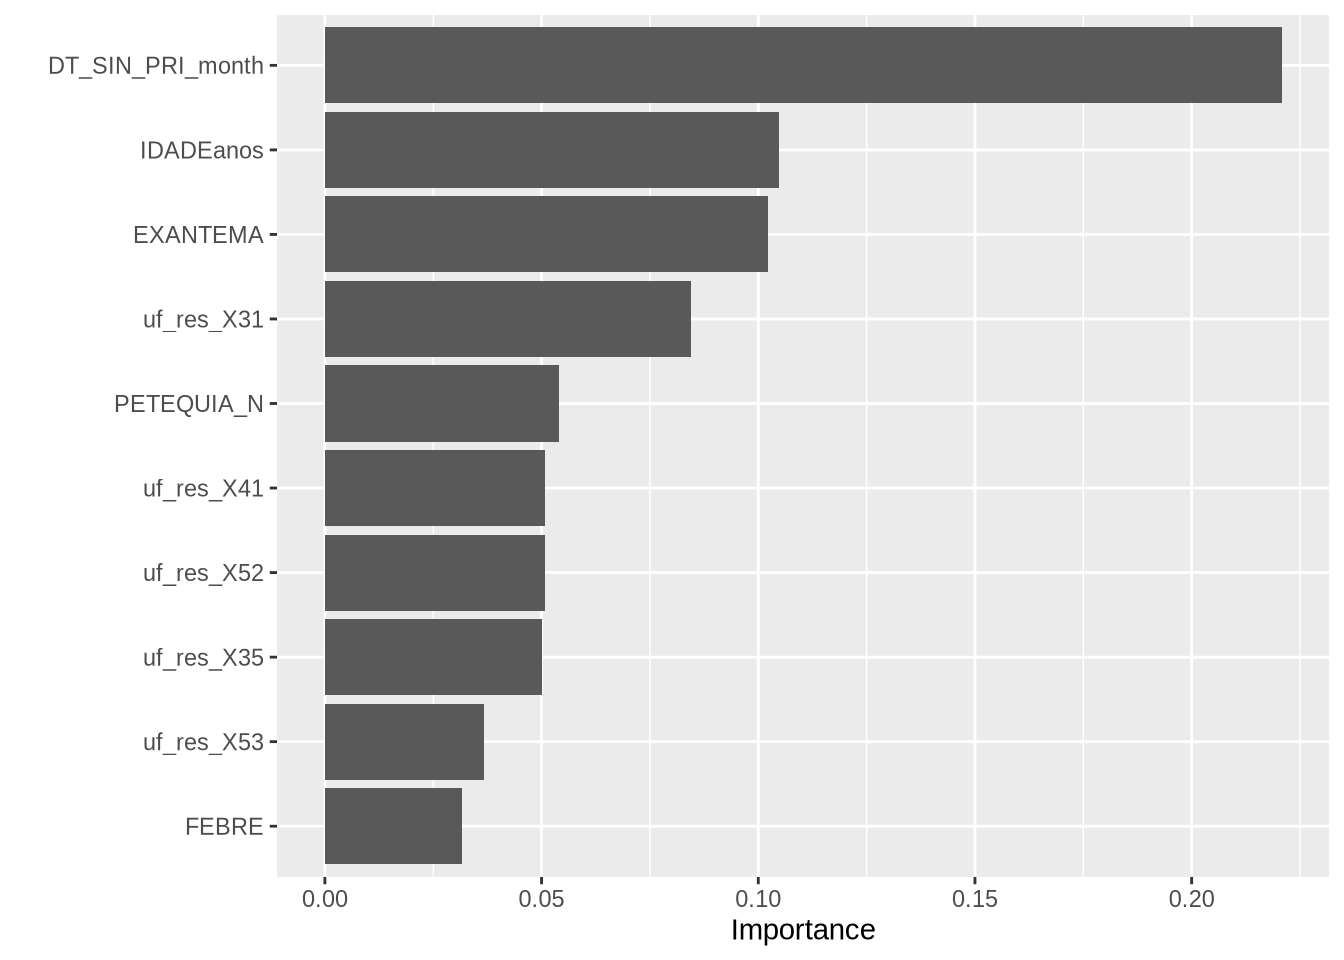
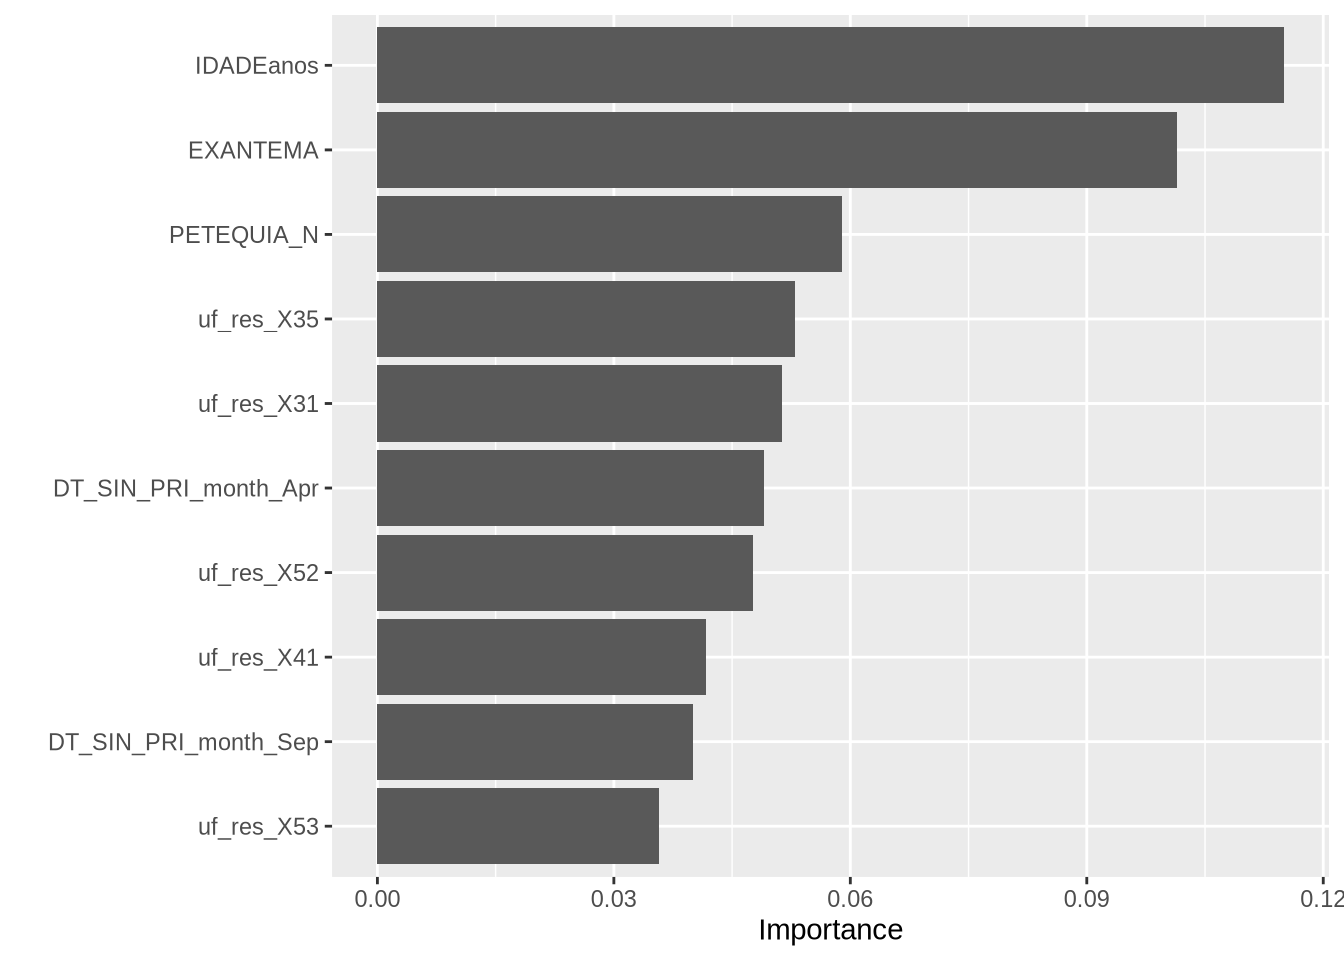
model run

diff --git a/docs/dengue-model/classification/03_model_ref_simp.html b/docs/dengue-model/classification/03_model_ref_simp.html
@@ -629,7 +629,7 @@ gtag('config', 'G-ZMP18L536K', { 'anonymize_ip': true});
     <div>
     <div class="quarto-title-meta-heading">Last modification</div>
     <div class="quarto-title-meta-contents">
-      <p class="date">February 13, 2024 | 12:25:37 -03:00</p>
+      <p class="date">February 13, 2024 | 12:43:36 -03:00</p>
     </div>
   </div>
   
@@ -723,12 +723,13 @@ gtag('config', 'G-ZMP18L536K', { 'anonymize_ip': true});
 <div class="cell">
 <div class="sourceCode cell-code" id="cb7"><pre class="sourceCode r code-with-copy"><code class="sourceCode r"><span id="cb7-1"><a href="#cb7-1" aria-hidden="true" tabindex="-1"></a>rec_ref_simp_2 <span class="ot">&lt;-</span> <span class="fu">recipe</span>(CLASSI_FIN <span class="sc">~</span> ., <span class="at">data =</span> dc_ref_simp_training) <span class="sc">|&gt;</span></span>
 <span id="cb7-2"><a href="#cb7-2" aria-hidden="true" tabindex="-1"></a>  <span class="fu">step_rm</span>(CRITERIO, case_source, ID_MN_RESI) <span class="sc">|&gt;</span></span>
-<span id="cb7-3"><a href="#cb7-3" aria-hidden="true" tabindex="-1"></a>  <span class="fu">step_date</span>(DT_SIN_PRI, <span class="at">features =</span> <span class="fu">c</span>(<span class="st">"month"</span>), <span class="at">label =</span> <span class="cn">FALSE</span>, <span class="at">keep_original_cols =</span> <span class="cn">FALSE</span>) <span class="sc">|&gt;</span></span>
-<span id="cb7-4"><a href="#cb7-4" aria-hidden="true" tabindex="-1"></a>  <span class="fu">step_dummy</span>(uf_res, <span class="at">one_hot =</span> <span class="cn">TRUE</span>) <span class="sc">|&gt;</span></span>
-<span id="cb7-5"><a href="#cb7-5" aria-hidden="true" tabindex="-1"></a>  <span class="fu">step_integer</span>(<span class="fu">all_logical_predictors</span>()) <span class="sc">|&gt;</span></span>
-<span id="cb7-6"><a href="#cb7-6" aria-hidden="true" tabindex="-1"></a>  <span class="fu">step_mutate_at</span>(<span class="fu">all_of</span>(symp_cond_vars), <span class="at">fn =</span> <span class="sc">~</span><span class="fu">replace_na</span>(., <span class="dv">0</span>)) <span class="sc">|&gt;</span></span>
-<span id="cb7-7"><a href="#cb7-7" aria-hidden="true" tabindex="-1"></a>  <span class="fu">step_other</span>(CS_GESTANT) <span class="sc">|&gt;</span></span>
-<span id="cb7-8"><a href="#cb7-8" aria-hidden="true" tabindex="-1"></a>  <span class="fu">step_dummy</span>(CS_SEXO, CS_GESTANT, <span class="at">one_hot =</span> <span class="cn">TRUE</span>)</span></code><button title="Copy to Clipboard" class="code-copy-button"><i class="bi"></i></button></pre></div>
+<span id="cb7-3"><a href="#cb7-3" aria-hidden="true" tabindex="-1"></a>  <span class="fu">step_date</span>(DT_SIN_PRI, <span class="at">features =</span> <span class="fu">c</span>(<span class="st">"month"</span>), <span class="at">keep_original_cols =</span> <span class="cn">FALSE</span>) <span class="sc">|&gt;</span></span>
+<span id="cb7-4"><a href="#cb7-4" aria-hidden="true" tabindex="-1"></a>  <span class="fu">step_dummy</span>(DT_SIN_PRI_month, <span class="at">one_hot =</span> <span class="cn">TRUE</span>) <span class="sc">|&gt;</span></span>
+<span id="cb7-5"><a href="#cb7-5" aria-hidden="true" tabindex="-1"></a>  <span class="fu">step_dummy</span>(uf_res, <span class="at">one_hot =</span> <span class="cn">TRUE</span>) <span class="sc">|&gt;</span></span>
+<span id="cb7-6"><a href="#cb7-6" aria-hidden="true" tabindex="-1"></a>  <span class="fu">step_integer</span>(<span class="fu">all_logical_predictors</span>()) <span class="sc">|&gt;</span></span>
+<span id="cb7-7"><a href="#cb7-7" aria-hidden="true" tabindex="-1"></a>  <span class="fu">step_mutate_at</span>(<span class="fu">all_of</span>(symp_cond_vars), <span class="at">fn =</span> <span class="sc">~</span><span class="fu">replace_na</span>(., <span class="dv">0</span>)) <span class="sc">|&gt;</span></span>
+<span id="cb7-8"><a href="#cb7-8" aria-hidden="true" tabindex="-1"></a>  <span class="fu">step_other</span>(CS_GESTANT) <span class="sc">|&gt;</span></span>
+<span id="cb7-9"><a href="#cb7-9" aria-hidden="true" tabindex="-1"></a>  <span class="fu">step_dummy</span>(CS_SEXO, CS_GESTANT, <span class="at">one_hot =</span> <span class="cn">TRUE</span>)</span></code><button title="Copy to Clipboard" class="code-copy-button"><i class="bi"></i></button></pre></div>
 </div>
 </section>
 </section>
@@ -786,13 +787,13 @@ gtag('config', 'G-ZMP18L536K', { 'anonymize_ip': true});
 <pre><code>i 1 of 2 tuning:     rec_ref_simp_1_xgb</code></pre>
 </div>
 <div class="cell-output cell-output-stderr">
-<pre><code>✔ 1 of 2 tuning:     rec_ref_simp_1_xgb (2m 10.6s)</code></pre>
+<pre><code>✔ 1 of 2 tuning:     rec_ref_simp_1_xgb (2m 10.2s)</code></pre>
 </div>
 <div class="cell-output cell-output-stderr">
 <pre><code>i 2 of 2 tuning:     rec_ref_simp_2_xgb</code></pre>
 </div>
 <div class="cell-output cell-output-stderr">
-<pre><code>✔ 2 of 2 tuning:     rec_ref_simp_2_xgb (3m 52.3s)</code></pre>
+<pre><code>✔ 2 of 2 tuning:     rec_ref_simp_2_xgb (4m 25.9s)</code></pre>
 </div>
 </div>
 <div class="cell">
@@ -803,16 +804,16 @@ gtag('config', 'G-ZMP18L536K', { 'anonymize_ip': true});
 <pre><code># A tibble: 50 × 9
    wflow_id         .config .metric  mean std_err     n preprocessor model  rank
    &lt;chr&gt;            &lt;chr&gt;   &lt;chr&gt;   &lt;dbl&gt;   &lt;dbl&gt; &lt;int&gt; &lt;chr&gt;        &lt;chr&gt; &lt;int&gt;
- 1 rec_ref_simp_2_… Prepro… accura… 0.648 0.00413     5 recipe       boos…     1
- 2 rec_ref_simp_2_… Prepro… f_meas  0.667 0.00364     5 recipe       boos…     1
- 3 rec_ref_simp_2_… Prepro… roc_auc 0.701 0.00446     5 recipe       boos…     1
- 4 rec_ref_simp_2_… Prepro… sens    0.684 0.00383     5 recipe       boos…     1
- 5 rec_ref_simp_2_… Prepro… spec    0.610 0.00597     5 recipe       boos…     1
- 6 rec_ref_simp_2_… Prepro… accura… 0.645 0.00286     5 recipe       boos…     2
- 7 rec_ref_simp_2_… Prepro… f_meas  0.665 0.00277     5 recipe       boos…     2
- 8 rec_ref_simp_2_… Prepro… roc_auc 0.699 0.00460     5 recipe       boos…     2
- 9 rec_ref_simp_2_… Prepro… sens    0.683 0.00423     5 recipe       boos…     2
-10 rec_ref_simp_2_… Prepro… spec    0.605 0.00524     5 recipe       boos…     2
+ 1 rec_ref_simp_2_… Prepro… accura… 0.645 1.29e-3     5 recipe       boos…     1
+ 2 rec_ref_simp_2_… Prepro… f_meas  0.661 9.74e-4     5 recipe       boos…     1
+ 3 rec_ref_simp_2_… Prepro… roc_auc 0.697 3.06e-3     5 recipe       boos…     1
+ 4 rec_ref_simp_2_… Prepro… sens    0.670 2.75e-3     5 recipe       boos…     1
+ 5 rec_ref_simp_2_… Prepro… spec    0.619 4.62e-3     5 recipe       boos…     1
+ 6 rec_ref_simp_2_… Prepro… accura… 0.646 3.03e-3     5 recipe       boos…     2
+ 7 rec_ref_simp_2_… Prepro… f_meas  0.660 2.61e-3     5 recipe       boos…     2
+ 8 rec_ref_simp_2_… Prepro… roc_auc 0.700 3.53e-3     5 recipe       boos…     2
+ 9 rec_ref_simp_2_… Prepro… sens    0.667 3.16e-3     5 recipe       boos…     2
+10 rec_ref_simp_2_… Prepro… spec    0.625 5.46e-3     5 recipe       boos…     2
 # ℹ 40 more rows</code></pre>
 </div>
 </div>
@@ -858,11 +859,8 @@ gtag('config', 'G-ZMP18L536K', { 'anonymize_ip': true});
 <pre><code>→ A | warning: There are new levels in a factor: NA</code></pre>
 </div>
 <div class="cell-output cell-output-stderr">
-<pre><code>There were issues with some computations   A: x1</code></pre>
-</div>
-<div class="cell-output cell-output-stderr">
-<pre><code>There were issues with some computations   A: x2
-There were issues with some computations   A: x2</code></pre>
+<pre><code>There were issues with some computations   A: x1
+There were issues with some computations   A: x1</code></pre>
 </div>
 <div class="cell-output cell-output-stderr">
 <pre><code></code></pre>
@@ -872,29 +870,29 @@ There were issues with some computations   A: x2</code></pre>
 <section id="model-evaluation" class="level2">
 <h2 class="anchored" data-anchor-id="model-evaluation">Model evaluation</h2>
 <div class="cell">
-<div class="sourceCode cell-code" id="cb27"><pre class="sourceCode r code-with-copy"><code class="sourceCode r"><span id="cb27-1"><a href="#cb27-1" aria-hidden="true" tabindex="-1"></a><span class="fu">collect_metrics</span>(ref_simp_last_fit)</span></code><button title="Copy to Clipboard" class="code-copy-button"><i class="bi"></i></button></pre></div>
+<div class="sourceCode cell-code" id="cb26"><pre class="sourceCode r code-with-copy"><code class="sourceCode r"><span id="cb26-1"><a href="#cb26-1" aria-hidden="true" tabindex="-1"></a><span class="fu">collect_metrics</span>(ref_simp_last_fit)</span></code><button title="Copy to Clipboard" class="code-copy-button"><i class="bi"></i></button></pre></div>
 <div class="cell-output cell-output-stdout">
 <pre><code># A tibble: 2 × 4
   .metric  .estimator .estimate .config             
   &lt;chr&gt;    &lt;chr&gt;          &lt;dbl&gt; &lt;chr&gt;               
-1 accuracy binary         0.647 Preprocessor1_Model1
-2 roc_auc  binary         0.708 Preprocessor1_Model1</code></pre>
+1 accuracy binary         0.650 Preprocessor1_Model1
+2 roc_auc  binary         0.697 Preprocessor1_Model1</code></pre>
 </div>
 </div>
 <div class="cell">
-<div class="sourceCode cell-code" id="cb29"><pre class="sourceCode r code-with-copy"><code class="sourceCode r"><span id="cb29-1"><a href="#cb29-1" aria-hidden="true" tabindex="-1"></a><span class="fu">collect_predictions</span>(ref_simp_last_fit) <span class="sc">%&gt;%</span></span>
-<span id="cb29-2"><a href="#cb29-2" aria-hidden="true" tabindex="-1"></a>    <span class="fu">conf_mat</span>(CLASSI_FIN, .pred_class)</span></code><button title="Copy to Clipboard" class="code-copy-button"><i class="bi"></i></button></pre></div>
+<div class="sourceCode cell-code" id="cb28"><pre class="sourceCode r code-with-copy"><code class="sourceCode r"><span id="cb28-1"><a href="#cb28-1" aria-hidden="true" tabindex="-1"></a><span class="fu">collect_predictions</span>(ref_simp_last_fit) <span class="sc">%&gt;%</span></span>
+<span id="cb28-2"><a href="#cb28-2" aria-hidden="true" tabindex="-1"></a>    <span class="fu">conf_mat</span>(CLASSI_FIN, .pred_class)</span></code><button title="Copy to Clipboard" class="code-copy-button"><i class="bi"></i></button></pre></div>
 <div class="cell-output cell-output-stdout">
 <pre><code>          Truth
 Prediction Negative Positive
-  Negative     1623      865
-  Positive      779     1391</code></pre>
+  Negative     1605      831
+  Positive      797     1425</code></pre>
 </div>
 </div>
 <div class="cell">
-<div class="sourceCode cell-code" id="cb31"><pre class="sourceCode r code-with-copy"><code class="sourceCode r"><span id="cb31-1"><a href="#cb31-1" aria-hidden="true" tabindex="-1"></a>ref_simp_last_fit <span class="sc">%&gt;%</span></span>
-<span id="cb31-2"><a href="#cb31-2" aria-hidden="true" tabindex="-1"></a>  <span class="fu">extract_fit_engine</span>() <span class="sc">%&gt;%</span></span>
-<span id="cb31-3"><a href="#cb31-3" aria-hidden="true" tabindex="-1"></a>  <span class="fu">vip</span>()</span></code><button title="Copy to Clipboard" class="code-copy-button"><i class="bi"></i></button></pre></div>
+<div class="sourceCode cell-code" id="cb30"><pre class="sourceCode r code-with-copy"><code class="sourceCode r"><span id="cb30-1"><a href="#cb30-1" aria-hidden="true" tabindex="-1"></a>ref_simp_last_fit <span class="sc">%&gt;%</span></span>
+<span id="cb30-2"><a href="#cb30-2" aria-hidden="true" tabindex="-1"></a>  <span class="fu">extract_fit_engine</span>() <span class="sc">%&gt;%</span></span>
+<span id="cb30-3"><a href="#cb30-3" aria-hidden="true" tabindex="-1"></a>  <span class="fu">vip</span>()</span></code><button title="Copy to Clipboard" class="code-copy-button"><i class="bi"></i></button></pre></div>
 <div class="cell-output-display">
 <p><img src="03_model_ref_simp_files/figure-html/unnamed-chunk-18-1.png" class="img-fluid" width="672"></p>
 </div>
@@ -903,7 +901,7 @@ Prediction Negative Positive
 <section id="session-info" class="level2">
 <h2 class="anchored" data-anchor-id="session-info">Session info</h2>
 <div class="cell">
-<div class="sourceCode cell-code" id="cb32"><pre class="sourceCode r code-with-copy"><code class="sourceCode r"><span id="cb32-1"><a href="#cb32-1" aria-hidden="true" tabindex="-1"></a><span class="fu">session_info</span>()</span></code><button title="Copy to Clipboard" class="code-copy-button"><i class="bi"></i></button></pre></div>
+<div class="sourceCode cell-code" id="cb31"><pre class="sourceCode r code-with-copy"><code class="sourceCode r"><span id="cb31-1"><a href="#cb31-1" aria-hidden="true" tabindex="-1"></a><span class="fu">session_info</span>()</span></code><button title="Copy to Clipboard" class="code-copy-button"><i class="bi"></i></button></pre></div>
 <div class="cell-output cell-output-stdout">
 <pre><code>─ Session info ───────────────────────────────────────────────────────────────
  setting  value
